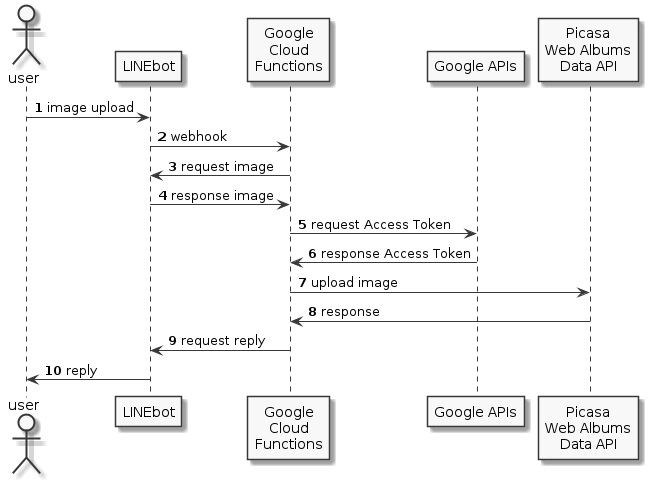
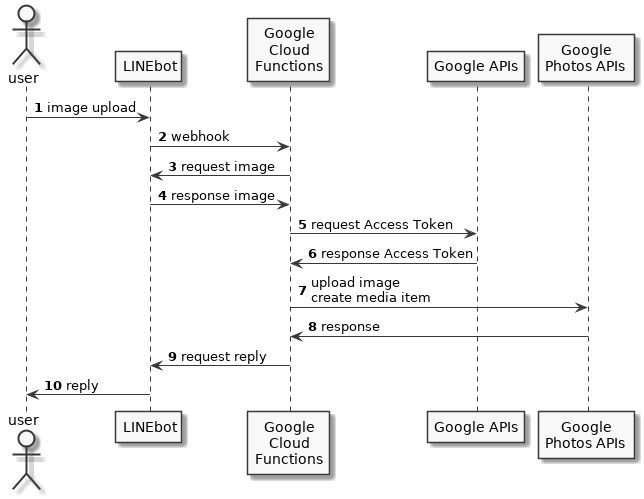
Picasa API 廃止

diff --git a/src/index.ts b/src/index.ts
@@ -114,15 +114,16 @@ class GoogleApi {
   }
 }
 
-class PicasaApi {
+class GooglePhotoApi {
 
-  private readonly hostname: string = 'picasaweb.google.com'
+  private readonly hostname: string = 'photoslibrary.googleapis.com'
 
   constructor () {
   }
 
   /**
    * [uploadImage 画像アップロード]
+   * https://developers.google.com/photos/library/guides/upload-media#uploading-bytes
    * @param  {string}       accessToken [アクセストークン]
    * @param  {number}       timestamp   [タイムスタンプ（画像のファイル名に使います）]
    * @param  {binary}       image       [画像ファイル]
@@ -135,12 +136,13 @@ class PicasaApi {
     return new Promise((resolve, reject) => {
       const req = https.request({
         'hostname': this.hostname,
-        'path': `/data/feed/api/user/${PICASA_USER_ID}/albumid/${PICASA_ALBUM_ID}?access_token=${accessToken}`,
+        'path': `/v1/uploads`,
         'method': 'POST',
         'headers': {
-          'Content-Type': 'image/jpeg',
-          'Content-Length': image.length,
-          'Slug': `${timestamp}.jpg`,
+          'Authorization': `Bearer ${accessToken}`,
+          'Content-Type': 'application/octet-stream',
+          'X-Goog-Upload-File-Name': `${timestamp}.jpg`,
+          'X-Goog-Upload-Protocol': 'raw'
         }
       }, (res) => {
         log(res)
@@ -154,6 +156,46 @@ class PicasaApi {
         })
       })
       req.write(image)
+      req.end()
+    })
+  }
+
+  /**
+   * [createMediaItem アップロードした写真を自分のライブラリに追加]
+   * https://developers.google.com/photos/library/guides/upload-media#creating-media-item
+   * @param  {string}       accessToken [アクセストークン]
+   * @param  {string}       uploadToken [アップロードトークン]
+   * @return {Promise<any>}             [Promise]
+   */
+  public createMediaItem (accessToken: string, uploadToken: string): Promise<any> {
+    const json = {
+      'newMediaItems': [
+        {
+          'simpleMediaItem': { uploadToken }
+        }
+      ]
+    }
+    return new Promise((resolve) => {
+      const req = https.request({
+        'hostname': this.hostname,
+        'path': `/v1/mediaItems:batchCreate`,
+        'method': 'POST',
+        'headers': {
+          'Authorization': `Bearer ${accessToken}`,
+          'Content-Type': 'application/json'
+        }
+      }, (res) => {
+        log(res)
+        let result: string = ''
+        res.on('data', (chunk: string) => {
+          result += chunk
+        })
+        res.on('end', () => {
+          console.log(`created media item: ${result}`)
+          resolve(result)
+        })
+      })
+      req.write(JSON.stringify(json))
       req.end()
     })
   }
@@ -179,12 +221,12 @@ exports.exec = async (req, res) => {
 
     const line = new LineAPI()
     const google = new GoogleApi()
-    const picasa = new PicasaApi()
+    const photo = new GooglePhotoApi()
 
     const image = await line.getContent(id)
     const json = await google.getAccessToken()
-
-    await picasa.uploadImage(json.access_token, timestamp, image)
+    const uploadToken = await photo.uploadImage(json.access_token, timestamp, image)
+    await photo.createMediaItem(json.access_token, uploadToken)
     await line.sedReply(replyToken, 'Thank you !!! uploaded Google Photos.')
 
     res.status(200).send('Success');

diff --git a/README.md b/README.md
@@ -17,11 +17,7 @@ https://gist.github.com/kkeisuke/6e460f97ed864c4563dae1c0e52f13d0
   // Google API
   const CLIENT_ID: string = 'xxx';
   const CLIENT_SECRET: string = 'xxx';
-  const REFRESH_TOKEN : string= 'xxx';
-
-  // Picasa
-  const PICASA_USER_ID: string = 'xxx';
-  const PICASA_ALBUM_ID: string = 'xxx';
+  const REFRESH_TOKEN: string= 'xxx';
   ```
 
 2. `npm install`
@@ -32,3 +28,7 @@ https://gist.github.com/kkeisuke/6e460f97ed864c4563dae1c0e52f13d0
 [Quickstart: Using the Console](https://cloud.google.com/functions/docs/quickstart-console?hl=ja)
 
 Paste `dest/index.min.js` in Inline editor.
+
+## Reference
+
+https://int128.hatenablog.com/entry/2018/06/06/234653
